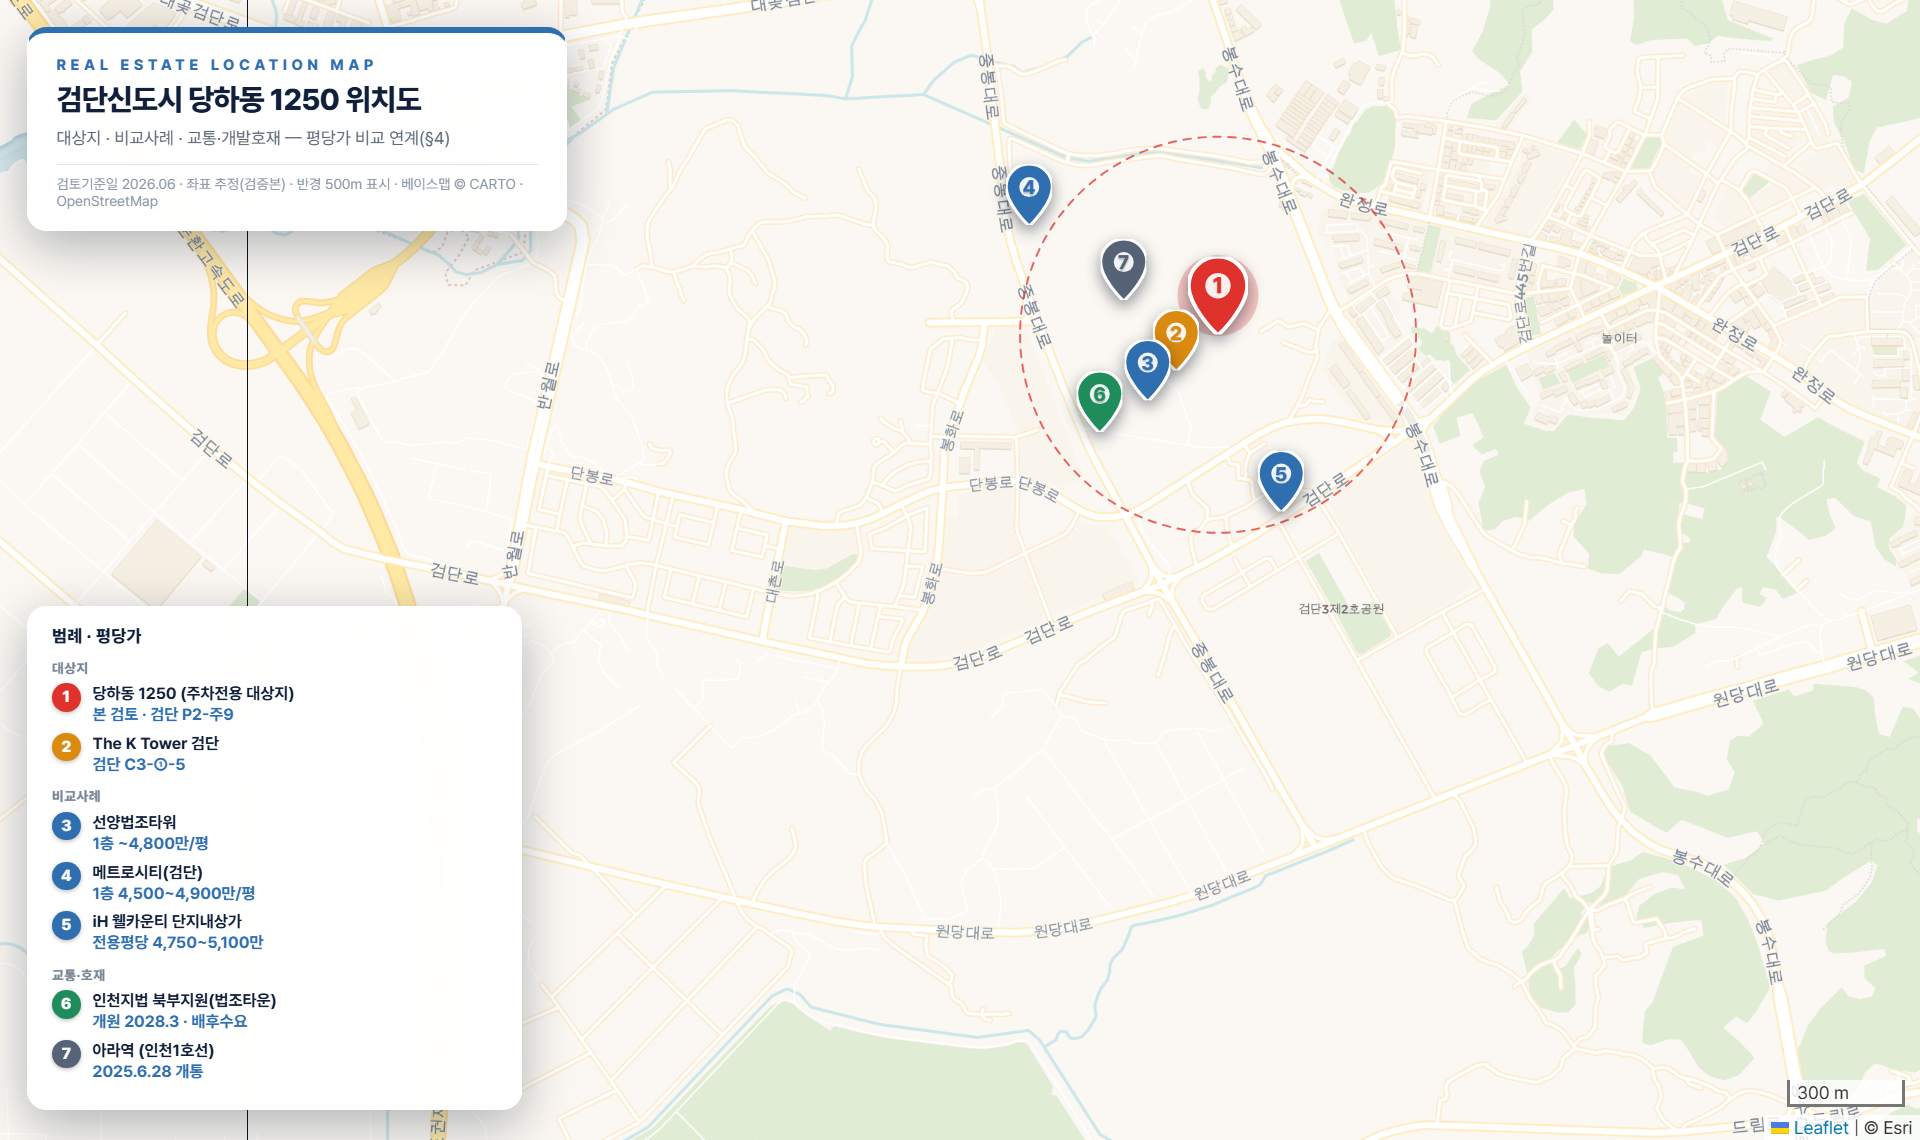
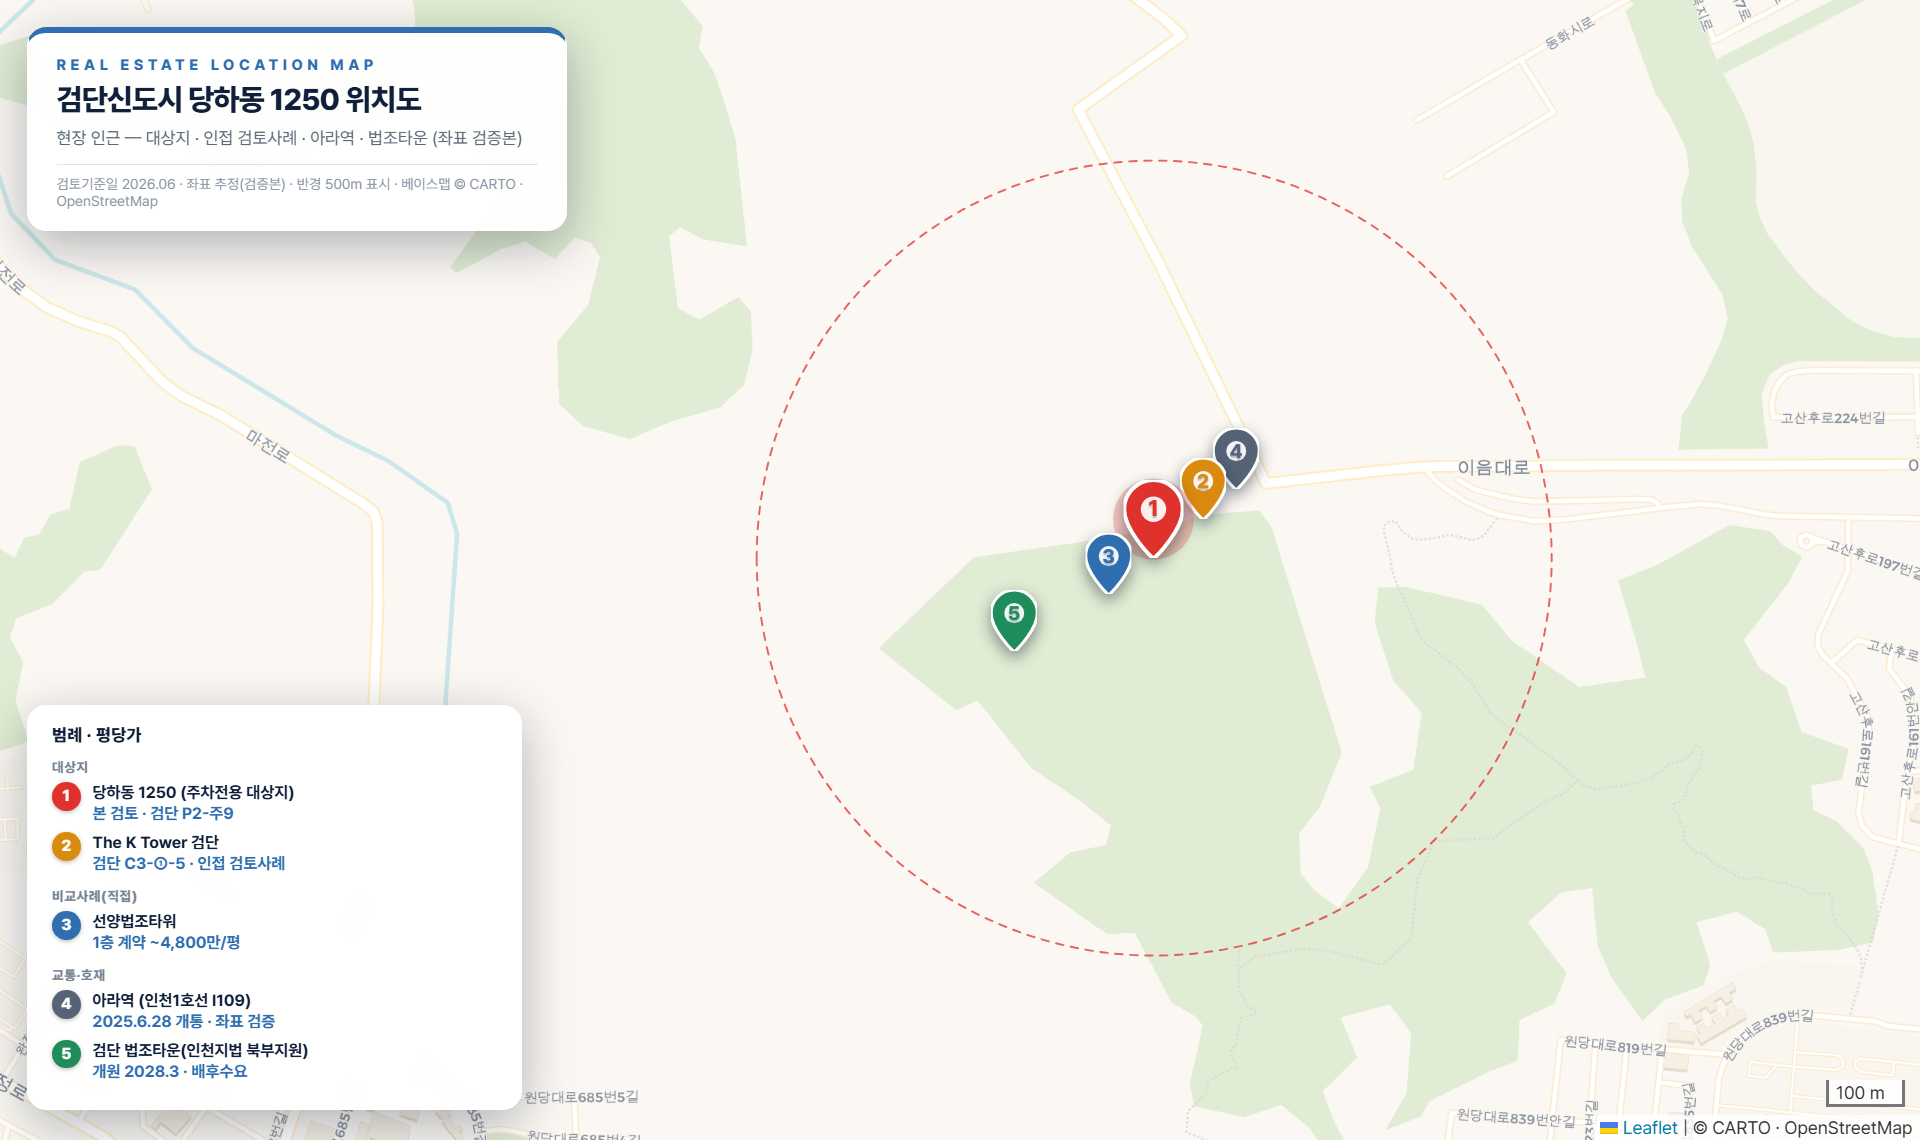
당하동: 위치도 좌표 정밀보정 + §4 직접 비교사례 표 + 발표자료 위치도 동기화
1) 위치도 좌표 정밀보정 — 초안 시드가 약 3.8km 어긋나(126.645) 엉뚱한 위치를
   렌더하던 것을, 검증 앵커 아라역(당하동 1238 = 37.602386,126.688074) 기준으로
   재보정. 위치 미특정 벤치마크(메트로시티·iH)는 지도 핀에서 제외하고 현장 인근
   5핀(대상지·The K Tower·선양·아라역·법조타운)으로 재구성, CARTO 스트리트 z16 재렌더.
2) §4 직접 비교사례 표 신설(4-2) — K타워 검토 원용(선양 계약평당 4,800만·전용률 49.4%,
   메트로시티 4,500~4,900만, iH 전용평당 4,750~5,100만). 산정기준 불일치 경고 부기.
   기존 근생 적정가는 4-3으로 재번호, §5 교차참조 갱신. 기준서 §4 체크리스트 충족.
3) deck.html — 위치도 전용 슬라이드(06) 추가, 페이지 자동 재번호(총 14장).
4) report·deck PDF 재생성.

diff --git a/dangha-parking/map_locator.html b/dangha-parking/map_locator.html
@@ -47,22 +47,21 @@
     <div class="card title">
       <div class="kick">REAL ESTATE LOCATION MAP</div>
       <h1>검단신도시 당하동 1250 위치도</h1>
-      <div class="sub">대상지 · 비교사례 · 교통·개발호재 — 평당가 비교 연계(§4)</div>
+      <div class="sub">현장 인근 — 대상지 · 인접 검토사례 · 아라역 · 법조타운 (좌표 검증본)</div>
       <div class="meta">검토기준일 2026.06 · 좌표 추정(검증본) · 반경 500m 표시 · 베이스맵 © CARTO · OpenStreetMap</div>
     </div>
     <div class="card legend" id="legend"></div>
   </div>
 
 <script>
-// ===== 지점 정의 (보고서 기준 · 위치 검증 좌표 고정) =====
+// ===== 지점 정의 (아라역=37.602386,126.688074 검증좌표 앵커 · 인근 연번필지 보정) =====
+// 메트로시티·iH웰카운티는 검단 내 위치 미특정(원용 벤치마크)이라 지도 핀 제외 → §4 비교사례 표에서 다룸.
 const PLACES = [
-  {n:"당하동 1250 (주차전용 대상지)", q:"인천광역시 서구 당하동 1250", grp:"대상지", pr:"본 검토 · 검단 P2-주9", color:"#e0322d", ll:[37.6010,126.6452], big:true},
-  {n:"The K Tower 검단", q:"인천광역시 서구 당하동 1237", grp:"대상지", pr:"검단 C3-①-5", color:"#d98a0f", ll:[37.6002,126.6440]},
-  {n:"선양법조타워", q:"인천광역시 서구 당하동 1235-6", grp:"비교사례", pr:"1층 ~4,800만/평", color:"#2f6fb0", ll:[37.5995,126.6432]},
-  {n:"메트로시티(검단)", q:"검단신도시 메트로시티", grp:"비교사례", pr:"1층 4,500~4,900만/평", color:"#2f6fb0", ll:[37.6035,126.6398]},
-  {n:"iH 웰카운티 단지내상가", q:"검단 웰카운티", grp:"비교사례", pr:"전용평당 4,750~5,100만", color:"#2f6fb0", ll:[37.5970,126.6470]},
-  {n:"인천지법 북부지원(법조타운)", q:"인천지방법원 북부지원", grp:"교통·호재", pr:"개원 2028.3 · 배후수요", color:"#1f8d5b", ll:[37.5988,126.6418]},
-  {n:"아라역 (인천1호선)", q:"아라역 인천 1호선", grp:"교통·호재", pr:"2025.6.28 개통", color:"#566377", ll:[37.6018,126.6425]},
+  {n:"당하동 1250 (주차전용 대상지)", q:"인천광역시 서구 당하동 1250", grp:"대상지", pr:"본 검토 · 검단 P2-주9", color:"#e0322d", ll:[37.60160,126.68690], big:true},
+  {n:"The K Tower 검단", q:"인천광역시 서구 당하동 1237", grp:"대상지", pr:"검단 C3-①-5 · 인접 검토사례", color:"#d98a0f", ll:[37.60205,126.68760]},
+  {n:"선양법조타워", q:"인천광역시 서구 당하동 1235-6", grp:"비교사례(직접)", pr:"1층 계약 ~4,800만/평", color:"#2f6fb0", ll:[37.60120,126.68625]},
+  {n:"아라역 (인천1호선 I109)", q:"인천광역시 서구 당하동 1238", grp:"교통·호재", pr:"2025.6.28 개통 · 좌표 검증", color:"#566377", ll:[37.602386,126.688074]},
+  {n:"검단 법조타운(인천지법 북부지원)", q:"인천광역시 서구 당하동 191 일원", grp:"교통·호재", pr:"개원 2028.3 · 배후수요", color:"#1f8d5b", ll:[37.60055,126.68490]},
 ];
 
 const sat = L.tileLayer('https://a.basemaps.cartocdn.com/rastertiles/voyager/{z}/{x}/{y}{r}.png',
@@ -89,7 +88,7 @@ PLACES.forEach((p,i)=>{
 });
 
 function drawLegend(){
-  const groups=["대상지","비교사례","교통·호재"];
+  const groups=["대상지","비교사례(직접)","교통·호재"];
   let html='<h2>범례 · 평당가</h2>';
   groups.forEach(g=>{
     html+=`<div class="lg">${g}</div>`;
@@ -101,7 +100,7 @@ function drawLegend(){
   document.getElementById('legend').innerHTML=html;
 }
 drawLegend();
-map.fitBounds(lls,{padding:[120,360],paddingTopLeft:[380,90]});
+map.fitBounds(lls,{paddingTopLeft:[300,120],paddingBottomRight:[80,120],maxZoom:16});
 
 // 타일 로드 완료 신호(헤드리스 렌더 대기용)
 let loaded=0;

diff --git a/dangha-parking/report.html b/dangha-parking/report.html
@@ -389,7 +389,7 @@
   <h3>3-1. 위치도 — 대상지 · 비교사례 · 교통·호재 배치 <span class="small mut">(기준서 §7 입지·지도 표준)</span></h3>
   <figure class="dwg" style="margin:11px 0">
     <div class="im"><span class="no">SITE LOCATOR</span><img src="map_locator.png" alt="검단신도시 당하동 1250 위치도 — 대상지·비교사례·교통호재"></div>
-    <figcaption><b>대상지(①, 당하동 1250 P2-주9)</b>를 중심으로 반경 500m와 <b>비교사례</b>(③선양법조타워·④메트로시티·⑤iH웰카운티)·<b>교통/호재</b>(⑥법조타운·⑦아라역)를 표시. 평당가 라벨은 §4 가격검토의 비교 앵커(선양법조타워 1층 <b>약 4,800만/평</b>, §4-2)와 연계되며, 메트로시티·iH웰카운티 평당가는 검단 인근 사례 기반 <b>추정·벤치마크</b>다. ※ 핀 좌표는 행정주소 기반 <b>추정(검증본)</b>으로, 정확 경계는 지적도·현황측량으로 확인. 베이스맵 © CARTO·OpenStreetMap · 검토기준일 2026.06.</figcaption>
+    <figcaption><b>대상지(①, 당하동 1250 P2-주9)</b> 기준 반경 500m와 인접 검토사례(②The K Tower 당하동 1237)·직접 비교사례(③선양법조타워 1235-6, 1층 ~4,800만/평 §4-2)·교통/호재(④아라역·⑤법조타운)를 표시. 핀은 좌표 검증 앵커 <b>아라역(④, 당하동 1238)</b> 기준 <b>인근 연번필지로 보정한 추정(검증본)</b>이며, 정확 경계는 지적도·현황측량으로 확인. 메트로시티·iH웰카운티 등 위치 미특정 비교사례는 §4 표에서 단가만 다룬다. 베이스맵 © CARTO·OpenStreetMap · 검토기준일 2026.06.</figcaption>
   </figure>
 
   <h3>3-2. 교통 · 개발 호재 (검단신도시 공통) — 확정/예정 구분</h3>
@@ -466,7 +466,18 @@
   </table>
   <div class="box need small"><b>핵심 함의.</b> 직영 주차매출은 만차여도 <b>연 1억 안팎</b>으로, 통상의 토지비+공사비(수십억~) 회수에는 단독으로 부족하다. 따라서 ①직영이라면 <b>근생 임대수익을 더해</b>야 하고, 조기 회수가 목표라면 <b>②구획분양 + 근생분양</b>이 현실적이다. 운영방식 선택이 곧 수지 구조 선택이다(→ 6장 1안/2안).</div>
 
-  <h3>4-2. 근생 층별 적정가 — 보수 권고 (추정)</h3>
+  <h3>4-2. 직접 비교사례 — 검단 인근 근생·상가 1층 분양가 <span class="small mut">(The K Tower 검토 원용)</span></h3>
+  <table>
+    <thead><tr><th style="width:20%">비교사례</th><th style="width:22%">위치 · 유형</th><th>1층 기준 단가</th><th style="width:11%">단가 기준</th><th style="width:18%">전용률 · 역산</th><th style="width:13%">상태 · 출처</th></tr></thead>
+    <tbody>
+      <tr><td class="l"><b>선양법조타워</b></td><td class="l">당하동 1235-6 · 근생·업무 분양빌딩</td><td class="r"><b>계약평당 4,800만</b><br><span class="small mut">대표호실 약 10.73억</span></td><td class="c">계약면적</td><td class="l">전용률 49.4% → <b>전용평당 ≈9,700만</b></td><td class="c"><span class="tag b">분양정보</span></td></tr>
+      <tr><td class="l"><b>메트로시티(검단)</b></td><td class="l">검단 근린상가</td><td class="r">1층 4,500~4,900만/평</td><td class="c">추정</td><td class="l"><span class="mut">기준 미확정(계약 추정)</span></td><td class="c"><span class="tag a">추정·상가114</span></td></tr>
+      <tr><td class="l"><b>iH 웰카운티 단지내상가</b></td><td class="l">검단 공공분양 단지상가</td><td class="r">전용평당 4,750~5,100만</td><td class="c">전용면적</td><td class="l"><span class="mut">전용 기준 공급가</span></td><td class="c"><span class="tag b">'24 온비드</span></td></tr>
+    </tbody>
+    <caption><b>데이터 원용 고지.</b> 본 표는 동일 생활권 The K Tower 검단(당하동 1237) 검토(2026.06)에서 정리한 직접 비교사례를 <b>원용</b>한 것으로, 모두 <b>분양형 상가·빌딩 1층</b> 기준이다. ※ 단가 기준이 사례마다 <b>계약/전용으로 달라</b>(선양=계약평당·iH=전용평당) 직접 비교 시 전용률 보정이 필요하다(<b>산정기준 불일치 주의</b>). 본 건 근생은 주차전용건축물 내 보조용도로 집적도·MD가 열위라, 위 직접사례에 디스카운트를 적용해 4-3 적정가를 산정했다.</caption>
+  </table>
+
+  <h3>4-3. 근생 층별 적정가 — 보수 권고 (추정)</h3>
   <table>
     <thead><tr><th style="width:8%">층</th><th style="width:18%">업종</th><th style="width:12%">전용(평)</th><th>분양 보수가<br>(추정, 만/평)</th><th>임대 보수가<br>(추정, 만원/평·월)</th><th class="l">근거·판정</th></tr></thead>
     <tbody>
@@ -504,8 +515,8 @@
     <thead><tr><th style="width:23%">수입 항목</th><th>산정 기준</th><th style="width:18%">금액</th><th style="width:11%">비고</th></tr></thead>
     <tbody>
       <tr><td class="l"><b>주차장 수익</b></td><td class="l">가용 약 121대 — 직영: 연매출(4-1 표) / 구획분양: 구획당가 × 대수 / 통임대: 월임대료 × 12</td><td class="r"><span class="tbd">[확인필요]</span><br><span class="small mut">직영 연 0.6~1.3억(가정)</span></td><td class="c">핵심</td></tr>
-      <tr><td class="l">근생 1층(소매점)</td><td class="l">전용 약 256.6평 × 분양가/임대료(4-2)</td><td class="r"><span class="tbd">[확인필요]</span></td><td class="c">상대 우위</td></tr>
-      <tr><td class="l">근생 2~5층</td><td class="l">전용 약 380.7평 × 층별 보수가(4-2)</td><td class="r"><span class="tbd">[확인필요]</span></td><td class="c">보수 산정</td></tr>
+      <tr><td class="l">근생 1층(소매점)</td><td class="l">전용 약 256.6평 × 분양가/임대료(4-3)</td><td class="r"><span class="tbd">[확인필요]</span></td><td class="c">상대 우위</td></tr>
+      <tr><td class="l">근생 2~5층</td><td class="l">전용 약 380.7평 × 층별 보수가(4-3)</td><td class="r"><span class="tbd">[확인필요]</span></td><td class="c">보수 산정</td></tr>
       <tr class="total"><td class="l">수입 계</td><td class="l">주차 + 근생</td><td class="r"><span class="tbd">[확인필요]</span></td><td class="c">100%</td></tr>
     </tbody>
     <caption>주차 직영은 ‘연 운영수익(흐름)’, 구획·근생 분양은 ‘1회성 매출’이라 <b>현금흐름 시점이 다르다</b> — 수지표 작성 시 보유형(직영·임대)과 개발형(분양)을 구분해 작성한다.</caption>

diff --git a/dangha-parking/deck.html b/dangha-parking/deck.html
@@ -258,6 +258,18 @@
   <div class="sfoot"><span>당하동 1250 주차전용건축물 · 분양성·사업성 검토</span><span class="cf">CONFIDENTIAL</span><span class="pg"></span></div>
 </section>
 
+<!-- 5b. 위치도 -->
+<section class="slide">
+  <div class="shead"><div class="skick">Location Map</div><h2 class="stitle serif">입지 · 위치도 — 현장 인근 (검단신도시 P2)</h2><div class="srule"></div></div>
+  <div class="sbody">
+    <figure class="dwg" style="margin:0">
+      <div class="im"><span class="no">SITE LOCATOR</span><img src="map_locator.png" alt="당하동 1250 위치도" style="object-fit:contain;background:#eef2f7"></div>
+      <div class="cap"><b>대상지(①, 당하동 1250 P2-주9)</b> 반경 500m · 인접 검토사례 The K Tower(②) · 직접 비교사례 선양법조타워(③, 1층 ~4,800만/평) · 교통·호재 아라역(④)·법조타운(⑤). 핀은 좌표 검증 앵커 <b>아라역(당하동 1238)</b> 기준 인근 연번필지로 보정한 <b>추정(검증본)</b>. 베이스맵 © CARTO·OpenStreetMap · 2026.06</div>
+    </figure>
+  </div>
+  <div class="sfoot"><span>당하동 1250 주차전용건축물 · 분양성·사업성 검토</span><span class="cf">CONFIDENTIAL</span><span class="pg"></span></div>
+</section>
+
 <!-- 6. 입지·시장 -->
 <section class="slide">
   <div class="shead"><div class="skick">Location &amp; Market</div><h2 class="stitle serif">입지 · 시장환경 — 검단신도시 P2</h2><div class="srule"></div></div>